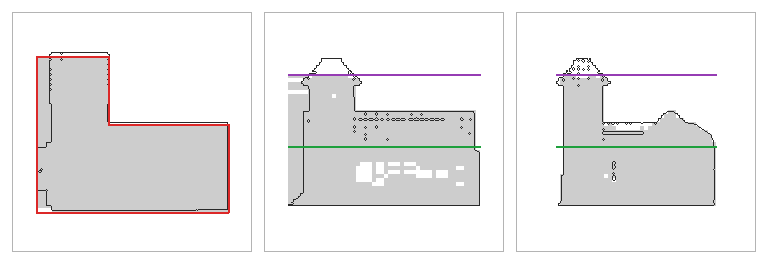
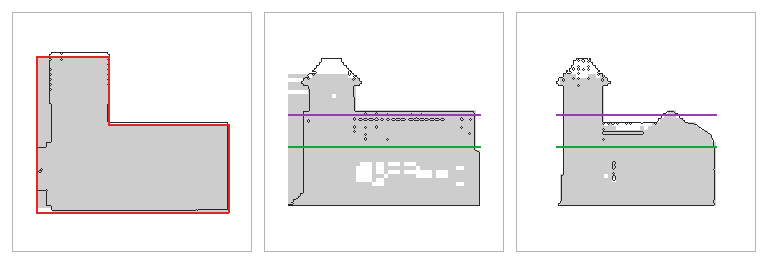
feat(E-31 T-123-01): profile run via row extents + per-mass pitch — owned pin rotation
Hollow-shell substrates leave interior parity holes that truncated the run walk
(barn read 78.7° from run 2); row extents measure to the plan's outer edge. Pitch is
now per body mass with the primary as headline (a tower spire must not become 'the
roof'). Records rotated under --rotate-pins inside the owning ticket; --repro
re-proves all four byte-identical; npm test 1708/1708.

diff --git a/benchmarks/sculpture/form-sketch/barn.md b/benchmarks/sculpture/form-sketch/barn.md
@@ -10,8 +10,8 @@ occupancy, black = raw mesh outline, red = footprint, blue = mirror, green/purpl
 | coarse faces | 100 kept of 11854 regions (target 100); dropped area 65.1% |
 | grammar fit | mean snap residual 0.24° |
 | orientation shares | `+y` 26.6%, `+z` 23.4%, `-y` 16.7%, `-z` 13.9%, `+x` 10.2%, `-x` 9.2%, `roof+x+y` 0.0%, `roof-x+y` 0.0%, `eave+x-y` 0.0%, `eave-x-y` 0.0%, `eave-z-y` 0.0%, `roof+z+y` 0.0%, `roof-z+y` 0.0%, `eave+z-y` 0.0% |
-| roof pitch | **steep** (dominant tilt 78.69°) |
+| roof pitch | **pitched45** (dominant tilt 45°) |
 | symmetry | axis z @ 12.5 cells, score 0.5518 (threshold 0.8) → not applied — stays asymmetric |
 | footprint | 4 vertices (clean rectangle), 1152 cells² over a 48×26 plan |
 | masses | 1 body (primary, protrusion, protrusion, protrusion, protrusion, protrusion, protrusion) |
-| proportions | eave 11 blocks / ridge 21 blocks (eaveFrac 0.5238); storeys 1→11 (out of band), 2→5.5, 3→3.7, 4→2.8 (out of band) |
+| proportions | eave 10 blocks / ridge 21 blocks (eaveFrac 0.4762); storeys 1→10 (out of band), 2→5, 3→3.3, 4→2.5 (out of band) |

diff --git a/benchmarks/sculpture/form-sketch/cottage.md b/benchmarks/sculpture/form-sketch/cottage.md
@@ -10,8 +10,8 @@ occupancy, black = raw mesh outline, red = footprint, blue = mirror, green/purpl
 | coarse faces | 100 kept of 8981 regions (target 100); dropped area 59.6% |
 | grammar fit | mean snap residual 0.57° |
 | orientation shares | `+y` 25.7%, `-y` 22.6%, `+x` 14.0%, `-x` 13.1%, `+z` 12.3%, `-z` 12.1%, `eave+x-y` 0.1%, `eave-x-y` 0.1%, `roof-x+y` 0.0%, `roof+x+y` 0.0%, `eave+z-y` 0.0%, `eave-z-y` 0.0%, `roof+z+y` 0.0%, `roof-z+y` 0.0% |
-| roof pitch | **pitched45** (dominant tilt 38.16°) |
+| roof pitch | **pitched45** (dominant tilt 35.54°) |
 | symmetry | axis x @ 13.5 cells, score 0.5396 (threshold 0.8) → not applied — stays asymmetric |
 | footprint | 8 vertices, 1496 cells² over a 40×48 plan |
 | masses | 1 body (primary, protrusion, protrusion) |
-| proportions | eave 18.7 blocks / ridge 27.3 blocks (eaveFrac 0.6829); storeys 1→18.7 (out of band), 2→9.3 (out of band), 3→6.2 (out of band), 4→4.7 |
+| proportions | eave 19.3 blocks / ridge 27.3 blocks (eaveFrac 0.7073); storeys 1→19.3 (out of band), 2→9.7 (out of band), 3→6.4 (out of band), 4→4.8 |

diff --git a/benchmarks/sculpture/form-sketch/church.md b/benchmarks/sculpture/form-sketch/church.md
@@ -10,7 +10,7 @@ occupancy, black = raw mesh outline, red = footprint, blue = mirror, green/purpl
 | coarse faces | 100 kept of 11226 regions (target 100); dropped area 49.8% |
 | grammar fit | mean snap residual 0.71° |
 | orientation shares | `-y` 18.8%, `+z` 17.8%, `+y` 17.7%, `-z` 17.6%, `+x` 13.9%, `-x` 13.3%, `roof+z+y` 0.2%, `eave+z-y` 0.2%, `eave-z-y` 0.1%, `roof-z+y` 0.1%, `roof+x+y` 0.1%, `eave+x-y` 0.1%, `roof-x+y` 0.1%, `eave-x-y` 0.1% |
-| roof pitch | **steep** (dominant tilt 71.57°) |
+| roof pitch | **pitched45** (dominant tilt 36.03°) |
 | symmetry | axis z @ 28 cells, score 0.4161 (threshold 0.8) → not applied — stays asymmetric |
 | footprint | 6 vertices, 1362 cells² over a 48×39 plan |
 | masses | 3 body (primary, attached, attached, protrusion) |
